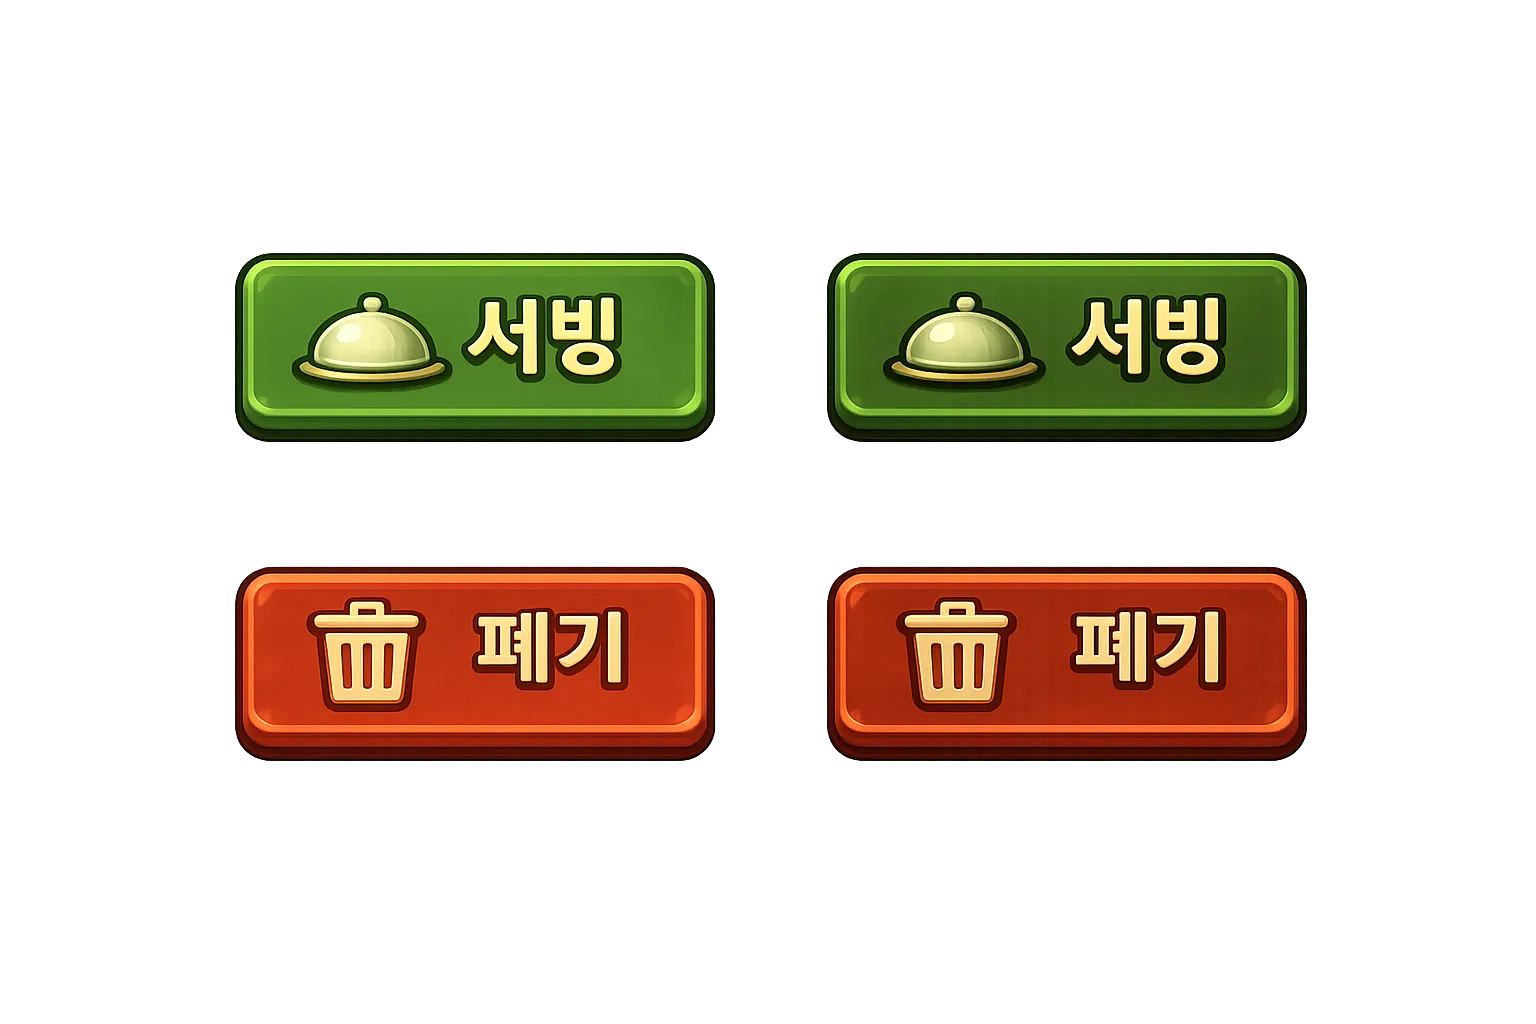
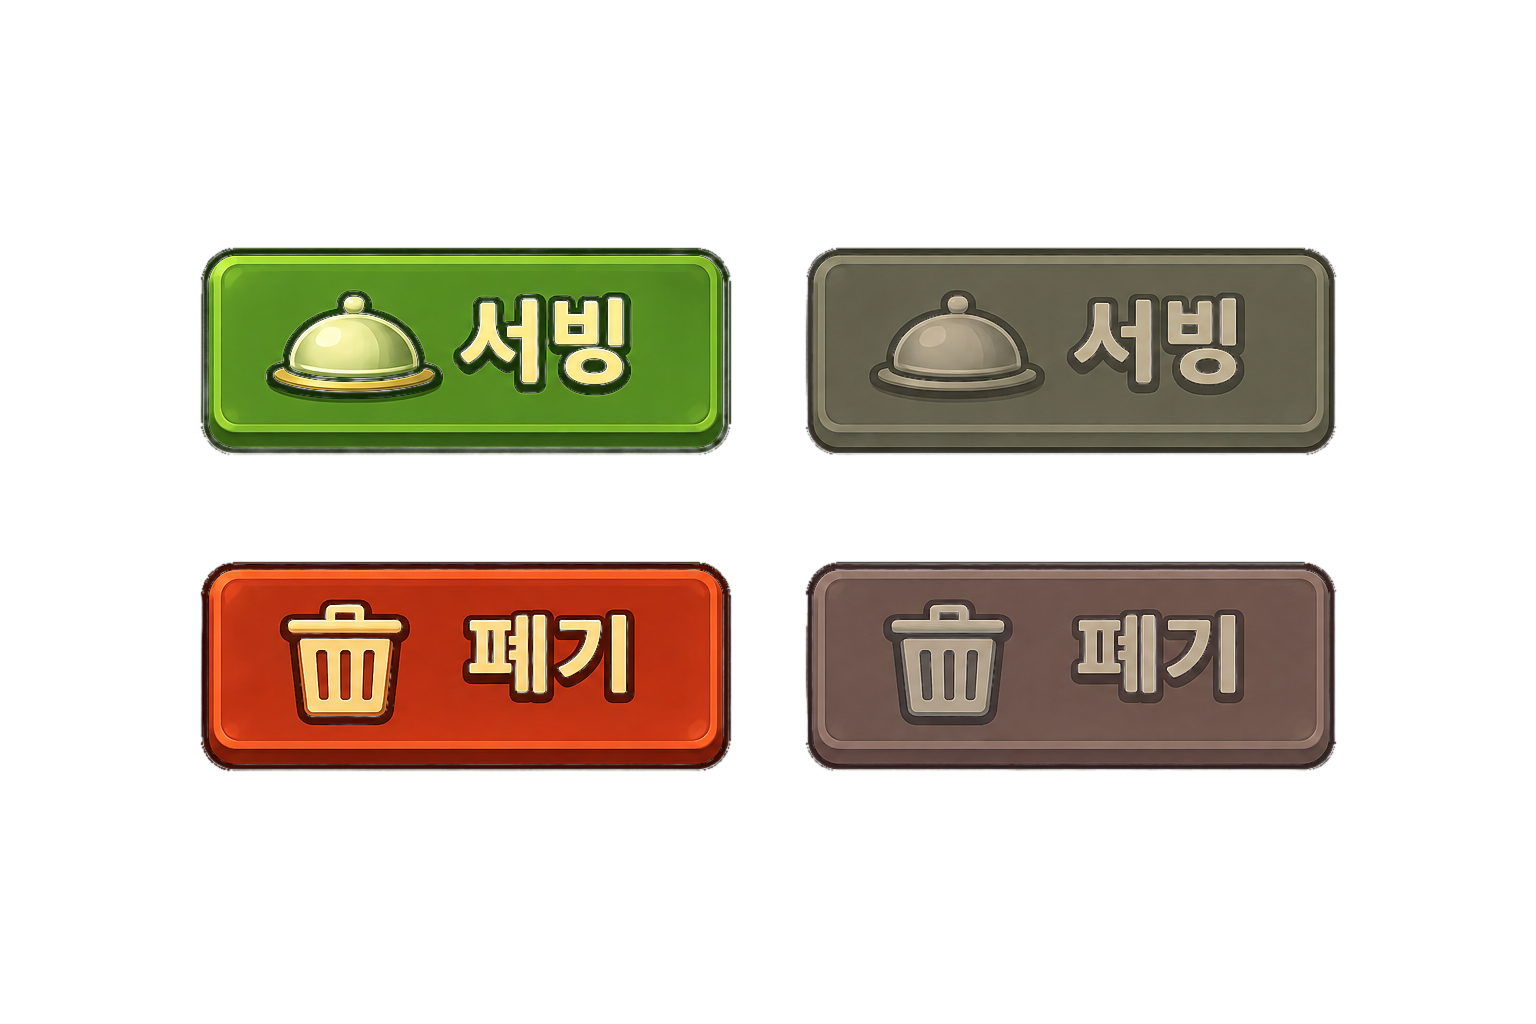
update: 서빙, 폐기 버튼 UI 변경

Changed region(s): [[0.125, 0.2188, 0.875, 0.4688], [0.125, 0.5312, 0.875, 0.75]]

diff --git a/src/components/CookingMinigame.tsx b/src/components/CookingMinigame.tsx
@@ -30,26 +30,11 @@ import { ActionTypes } from '../state/actions'
 import { getOrderFulfillment } from '../state/orderFulfillment'
 import ingredientData from '../data/ingredients.json'
 import { INGREDIENT_FOOD_STYLE } from '../utils/foodIcons'
-import { OPEN_ACTION_BUTTONS_ART } from '../utils/assets'
+import PlatedActionButton from './PlatedActionButton'
 
 const ingredientById = new Map(ingredientData.map((ingredient) => [ingredient.id, ingredient]))
 const grillIngredientById = new Map(grillIngredients.map((ingredient) => [ingredient.id, ingredient]))
 
-/** buttons.webp(1536x1024) 2x2 — 서빙 기본/클릭, 폐기 기본/클릭 크롭 좌표 */
-const ACTION_BUTTON_STYLE = {
-  serve: {
-    backgroundImage: `url(${OPEN_ACTION_BUTTONS_ART})`,
-    backgroundSize: '320% 541.8%',
-    '--btn-pos-default': '22.44% 30.54%',
-    '--btn-pos-pressed': '78.41% 30.54%',
-  },
-  discard: {
-    backgroundImage: `url(${OPEN_ACTION_BUTTONS_ART})`,
-    backgroundSize: '320% 525.13%',
-    '--btn-pos-default': '22.44% 68.4%',
-    '--btn-pos-pressed': '78.41% 68.4%',
-  },
-} as const
 const resultLabels = { good: '좋음', perfect: '완벽', danger: '아슬아슬' } as const
 const PERFECT_TIMING_ALERT_DURATION_MS = 1_000
 const AUTO_COLLECT_FEEDBACK_DURATION_MS = 1_300
@@ -345,25 +330,17 @@ export default function CookingMinigame() {
             </li>
           </ul>
           <div className="plated-actions">
-            <button
-              type="button"
-              className="plated-action-btn plated-action-btn--serve"
-              style={ACTION_BUTTON_STYLE.serve}
+            <PlatedActionButton
+              variant="serve"
               disabled={!selectedStillExists || !readyOrder}
               onClick={handleServeFromPlate}
               title={readyOrder ? undefined : '서빙 가능한 주문이 없습니다'}
-            >
-              <span className="visually-hidden">서빙</span>
-            </button>
-            <button
-              type="button"
-              className="plated-action-btn plated-action-btn--discard"
-              style={ACTION_BUTTON_STYLE.discard}
+            />
+            <PlatedActionButton
+              variant="discard"
               disabled={!selectedStillExists}
               onClick={handleDiscardFromPlate}
-            >
-              <span className="visually-hidden">폐기</span>
-            </button>
+            />
           </div>
         </section>
       </div>

diff --git a/src/components/PlatedActionButton.tsx b/src/components/PlatedActionButton.tsx
@@ -1,0 +1,43 @@
+import type { CSSProperties } from 'react'
+import { OPEN_ACTION_BUTTONS_ART } from '../utils/assets'
+
+/** buttons.webp(1536x1024) 2x2 — 서빙 활성/비활성, 폐기 활성/비활성 크롭 좌표 */
+const ACTION_BUTTON_STYLE: Record<'serve' | 'discard', CSSProperties> = {
+  serve: {
+    backgroundImage: `url(${OPEN_ACTION_BUTTONS_ART})`,
+    backgroundSize: '290.36% 497.09%',
+    '--btn-pos-active': '19.96% 30.32%',
+    '--btn-pos-inactive': '80.04% 30.32%',
+  } as CSSProperties,
+  discard: {
+    backgroundImage: `url(${OPEN_ACTION_BUTTONS_ART})`,
+    backgroundSize: '290.36% 492.31%',
+    '--btn-pos-active': '19.96% 68.87%',
+    '--btn-pos-inactive': '80.04% 68.87%',
+  } as CSSProperties,
+}
+
+const LABEL = { serve: '서빙', discard: '폐기' } as const
+
+export interface PlatedActionButtonProps {
+  variant: 'serve' | 'discard'
+  disabled: boolean
+  onClick: () => void
+  title?: string
+}
+
+/** 완성 트레이의 서빙/폐기 버튼 — disabled 여부에 따라 버튼 스프라이트를 활성/비활성으로 전환한다. */
+export default function PlatedActionButton({ variant, disabled, onClick, title }: PlatedActionButtonProps) {
+  return (
+    <button
+      type="button"
+      className={`plated-action-btn plated-action-btn--${variant}`}
+      style={ACTION_BUTTON_STYLE[variant]}
+      disabled={disabled}
+      onClick={onClick}
+      title={title}
+    >
+      <span className="visually-hidden">{LABEL[variant]}</span>
+    </button>
+  )
+}

diff --git a/src/styles/game.css b/src/styles/game.css
@@ -2400,27 +2400,23 @@ body:has(.phase-open) {
   align-items: center;
   justify-content: center;
   min-width: 0;
-  /* buttons.webp 원본 버튼 비율(480x192 ≈ 2.5:1)에 맞춰서 이미지가 늘어나 보이지 않도록 */
+  /* buttons.webp 원본 버튼 비율(529x207 ≈ 2.5:1)에 맞춰서 이미지가 늘어나 보이지 않도록 */
   aspect-ratio: 2.5 / 1;
   padding: 0;
   border: none;
   appearance: none;
   background-color: transparent;
   background-repeat: no-repeat;
-  background-position: var(--btn-pos-default);
+  background-position: var(--btn-pos-inactive);
   cursor: pointer;
 }
 
-.plated-action-btn:active:not(:disabled) {
-  background-position: var(--btn-pos-pressed);
+.plated-action-btn:not(:disabled) {
+  background-position: var(--btn-pos-active);
 }
 
 .plated-action-btn:hover:not(:disabled) {
   filter: brightness(1.06);
-}
-
-.plated-action-btn:disabled {
-  visibility: hidden;
 }
 
 .queue-list {

diff --git a/src/utils/assets.ts b/src/utils/assets.ts
@@ -72,7 +72,7 @@ export const OPEN_COOKING_FRAME_ART = publicUrl('images/open_phase/open-phase-la
 export const GRILL_TILE_OFF_ART = publicUrl('images/open_phase/grill-off.webp')
 /** 그릴 슬롯 타일 — 조리 중 상태(그릴 자국) */
 export const GRILL_TILE_ON_ART = publicUrl('images/open_phase/grill-on.webp')
-/** 서빙/폐기 버튼 스프라이트 시트 — 2x2(서빙 기본/클릭, 폐기 기본/클릭) */
+/** 서빙/폐기 버튼 스프라이트 시트 — 2x2(서빙 활성/비활성, 폐기 활성/비활성) */
 export const OPEN_ACTION_BUTTONS_ART = publicUrl('images/open_phase/buttons.webp')
 
 /**
